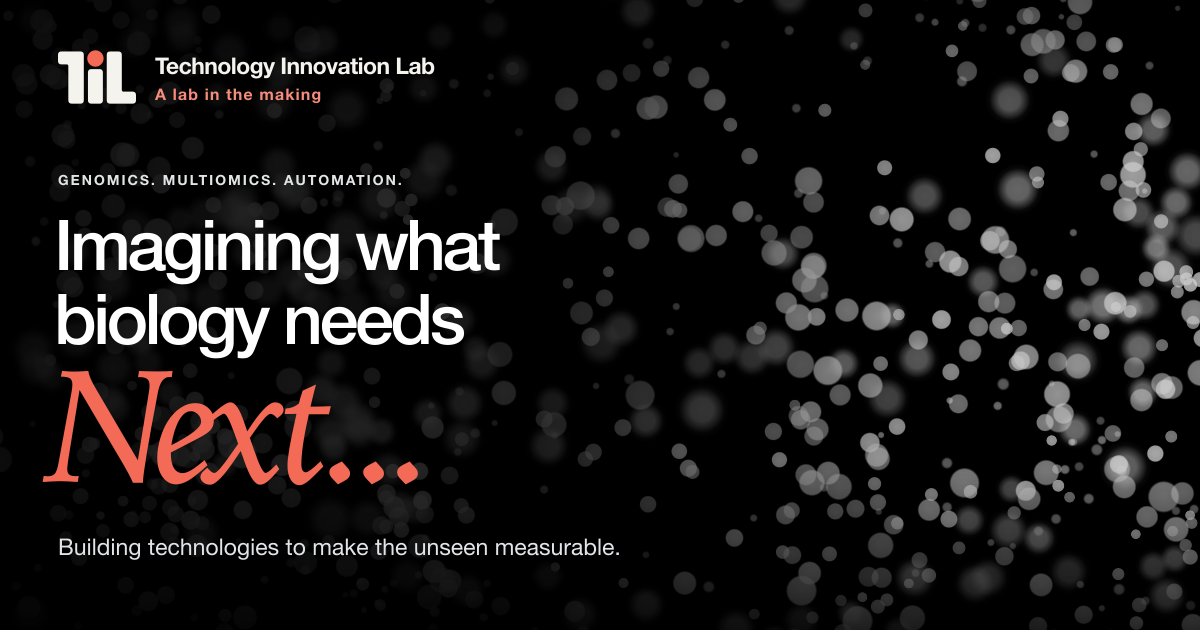
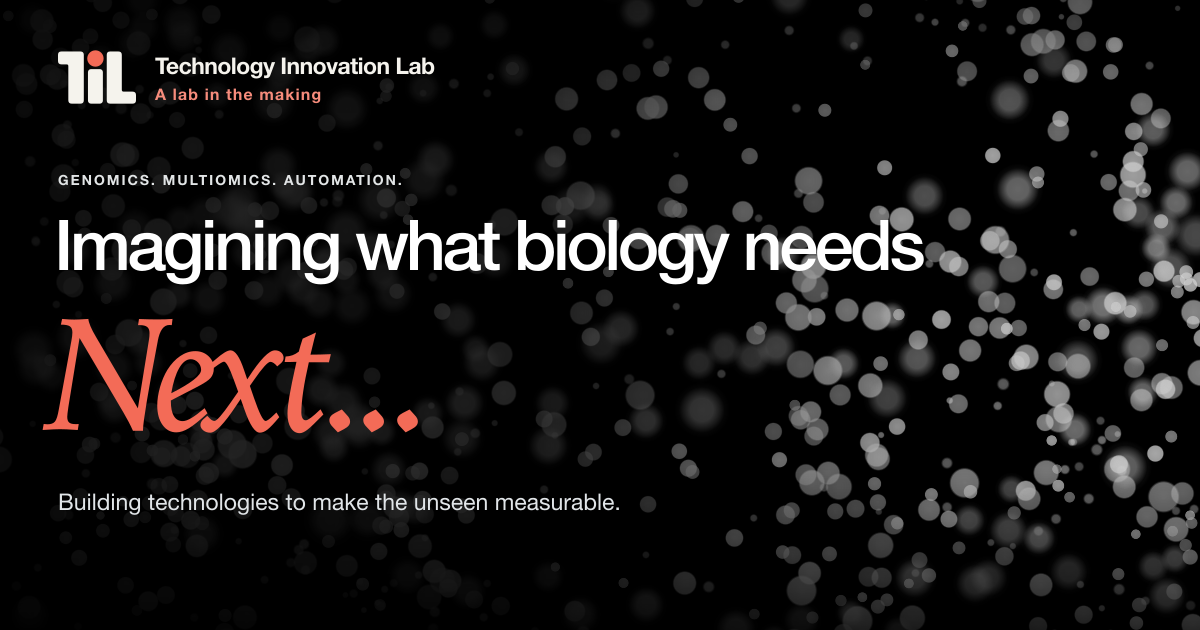
Set the social preview headline on one line

Changed region(s): [[0.0308, 0.4524, 0.5242, 0.8143], [0.4317, 0.3317, 0.7708, 0.4524], [0.0308, 0.8444, 0.5242, 0.9048]]

diff --git a/scripts/outline-social-type.swift b/scripts/outline-social-type.swift
@@ -1,4 +1,4 @@
-// Run on macOS: swift scripts/outline-social-type.swift public/og-til-cells-2026-09-30.svg
+// Run on macOS: swift scripts/outline-social-type.swift public/og-til-cells-2026-09-30-v2.svg
 // CoreText uses the same installed faces as the macOS hero. Outlines keep SVG
 // rasterizers from substituting a different italic when creating the PNG.
 import Foundation
@@ -19,10 +19,9 @@ let labels: [Label] = [
     .init(text: "Technology Innovation Lab", face: "HelveticaNeue-Bold", size: 23, tracking: -0.575, x: 155, y: 74, fill: "#f5f3ed"),
     .init(text: "A lab in the making", face: "HelveticaNeue-Bold", size: 16, tracking: 1.12, x: 155, y: 100, fill: "#f78c7c"),
     .init(text: "GENOMICS. MULTIOMICS. AUTOMATION.", face: "HelveticaNeue-Bold", size: 14, tracking: 1.96, x: 58, y: 185, fill: "#e2e5e6"),
-    .init(text: "Imagining what", face: "HelveticaNeue-Medium", size: 70, tracking: -3.5, x: 54, y: 270, fill: "#fff"),
-    .init(text: "biology needs", face: "HelveticaNeue-Medium", size: 70, tracking: -3.5, x: 54, y: 344, fill: "#fff"),
-    .init(text: "Next...", face: "IowanOldStyle-Italic", size: 167, tracking: -11.69, x: 48, y: 482, fill: "#f36b57"),
-    .init(text: "Building technologies to make the unseen measurable.", face: "HelveticaNeue", size: 23, tracking: 0, x: 58, y: 555, fill: "#e1e5e8"),
+    .init(text: "Imagining what biology needs", face: "HelveticaNeue-Medium", size: 70, tracking: -3.5, x: 54, y: 270, fill: "#fff"),
+    .init(text: "Next...", face: "IowanOldStyle-Italic", size: 167, tracking: -11.69, x: 48, y: 430, fill: "#f36b57"),
+    .init(text: "Building technologies to make the unseen measurable.", face: "HelveticaNeue", size: 23, tracking: 0, x: 58, y: 510, fill: "#e1e5e8"),
 ]
 
 func number(_ value: CGFloat) -> String {

diff --git a/app/layout.tsx b/app/layout.tsx
@@ -37,7 +37,7 @@ export async function generateMetadata(): Promise<Metadata> {
       type: "website",
       images: [
         {
-          url: `${origin}${assetPath("/og-til-cells-2026-09-30.png")}`,
+          url: `${origin}${assetPath("/og-til-cells-2026-09-30-v2.png")}`,
           width: 1200,
           height: 630,
           alt: "TIL logo and circular cells on black, with Imagining what biology needs Next...",
@@ -48,7 +48,7 @@ export async function generateMetadata(): Promise<Metadata> {
       card: "summary_large_image",
       title,
       description,
-      images: [`${origin}${assetPath("/og-til-cells-2026-09-30.png")}`],
+      images: [`${origin}${assetPath("/og-til-cells-2026-09-30-v2.png")}`],
     },
   };
 }

diff --git a/README.md b/README.md
@@ -71,22 +71,22 @@ custom credential or paid hosting service is needed in the workflow.
 
 ## Link preview image
 
-Open Graph and Twitter use `public/og-til-cells-2026-09-30.png` (1200 × 630).
+Open Graph and Twitter use `public/og-til-cells-2026-09-30-v2.png` (1200 × 630).
 The matching SVG is the editable source. Its lettering is outlined from the
 hero's native Helvetica Neue and Iowan Old Style Italic fonts, so exporters
 cannot silently substitute another face. To edit the text or its typography,
 update the labels in `scripts/outline-social-type.swift`, then run on macOS:
 
 ```sh
-swift scripts/outline-social-type.swift public/og-til-cells-2026-09-30.svg
+swift scripts/outline-social-type.swift public/og-til-cells-2026-09-30-v2.svg
 ```
 
 Rasterize the resulting SVG at 1200 × 630 after visual changes; exporting the
 outlined SVG does not require those fonts to be installed. Keep the preview
 consistent with the hero when changing the site's branding. Use a new image
 filename in `app/layout.tsx` and `tests/static-pages.test.mjs` for a new design.
-Copy the same PNG to `public/og.png` and `public/og-til-cells-2026-09.png` for
-clients using the previous URLs.
+Copy the same PNG to `public/og.png`, `public/og-til-cells-2026-09.png`, and
+`public/og-til-cells-2026-09-30.png` for clients using the previous URLs.
 `npm run test:pages` checks the exported image, metadata, and legacy copy.
 Messaging apps may retain previews already cached for a shared page URL.
 
